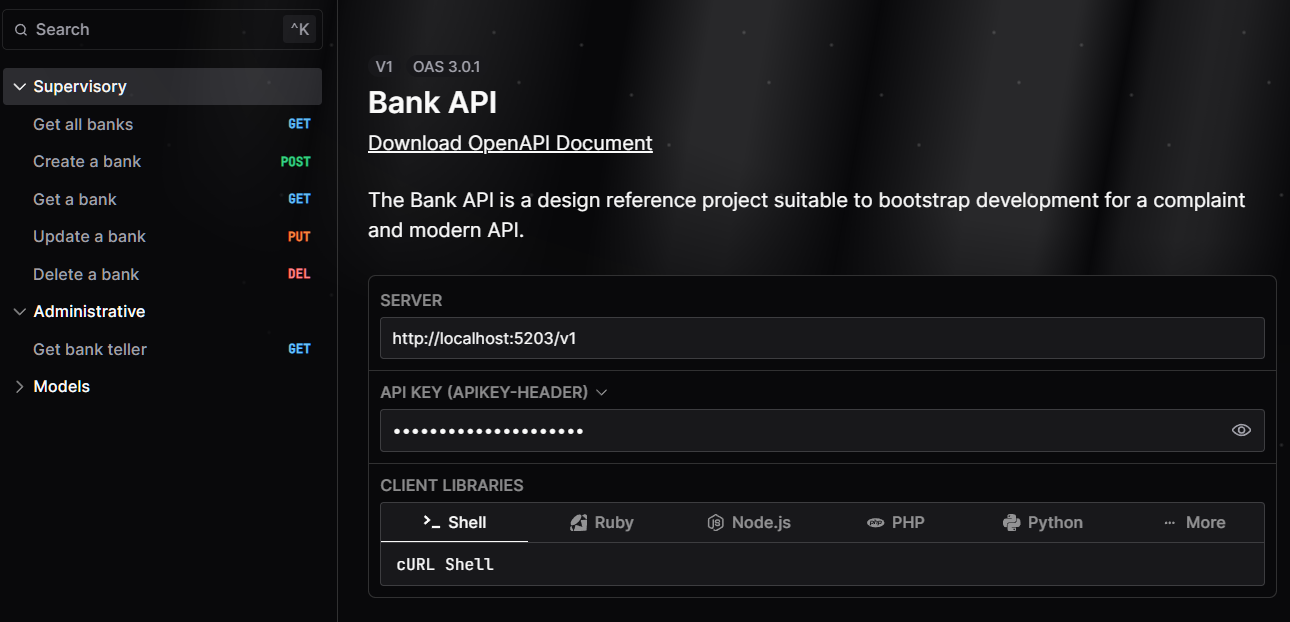
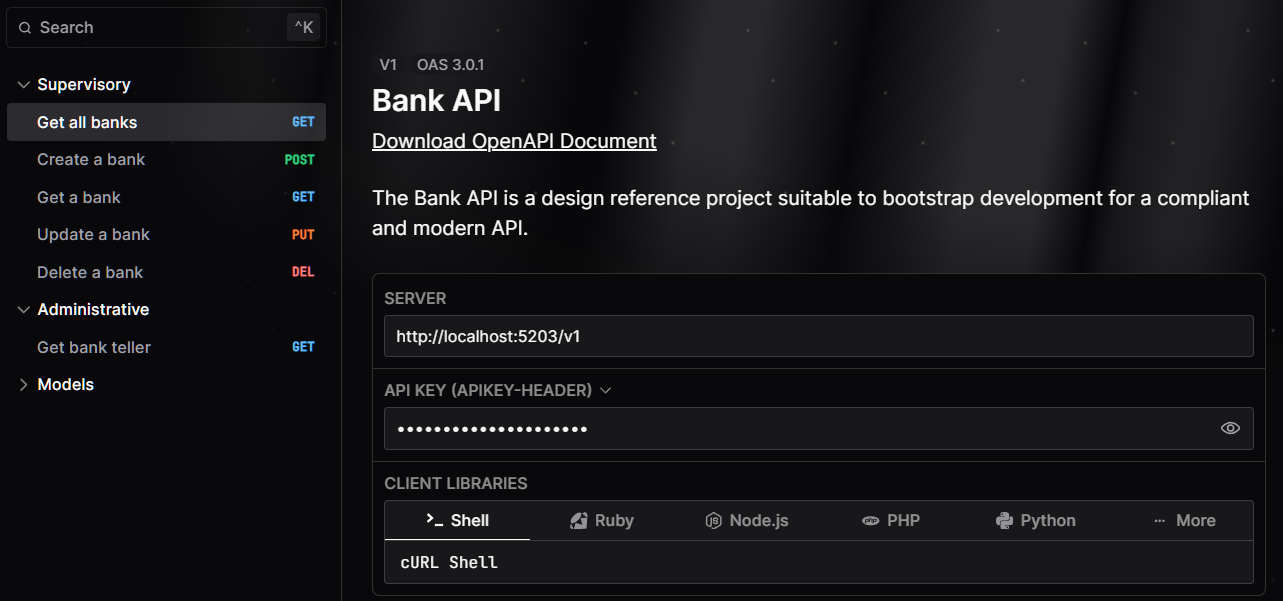
fix typo

diff --git a/README.md b/README.md
@@ -7,7 +7,7 @@
 
 ![Aspire](.images/aspire.png)
 
-The Bank API is a design reference project suitable to bootstrap development for a complaint and modern API.
+The Bank API is a design reference project suitable to bootstrap development for a compliant and modern API.
 
 ## Technology stack
 
